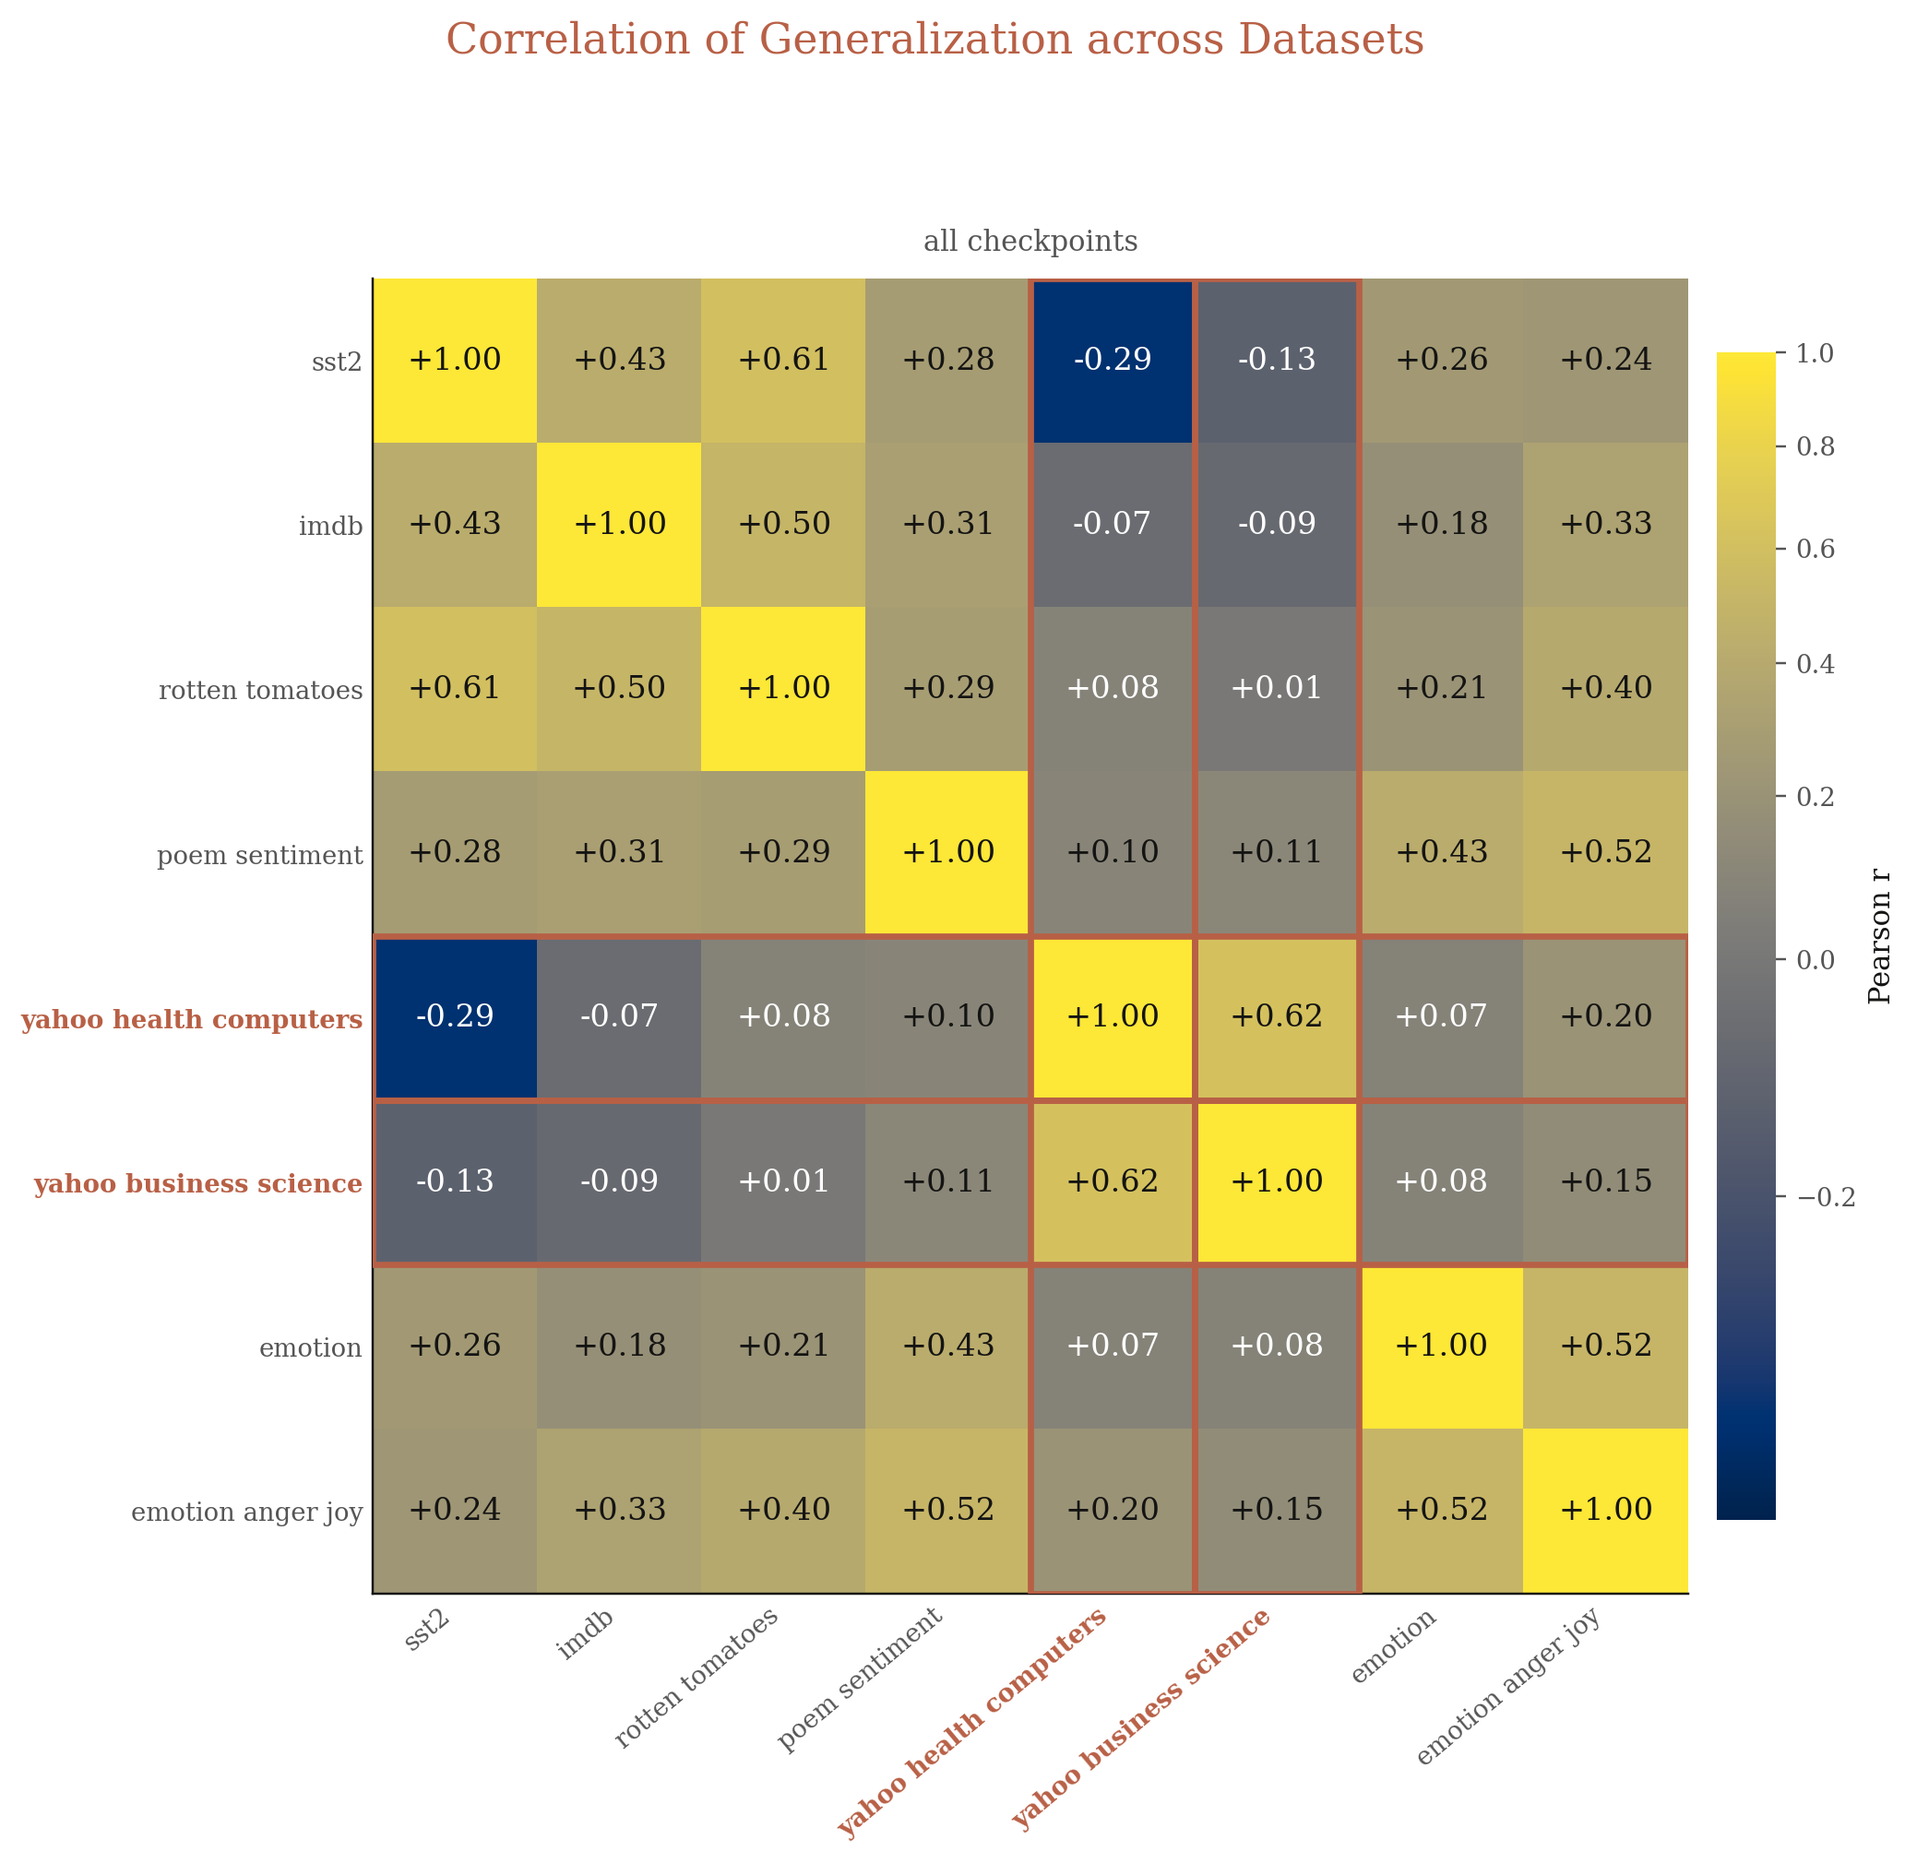
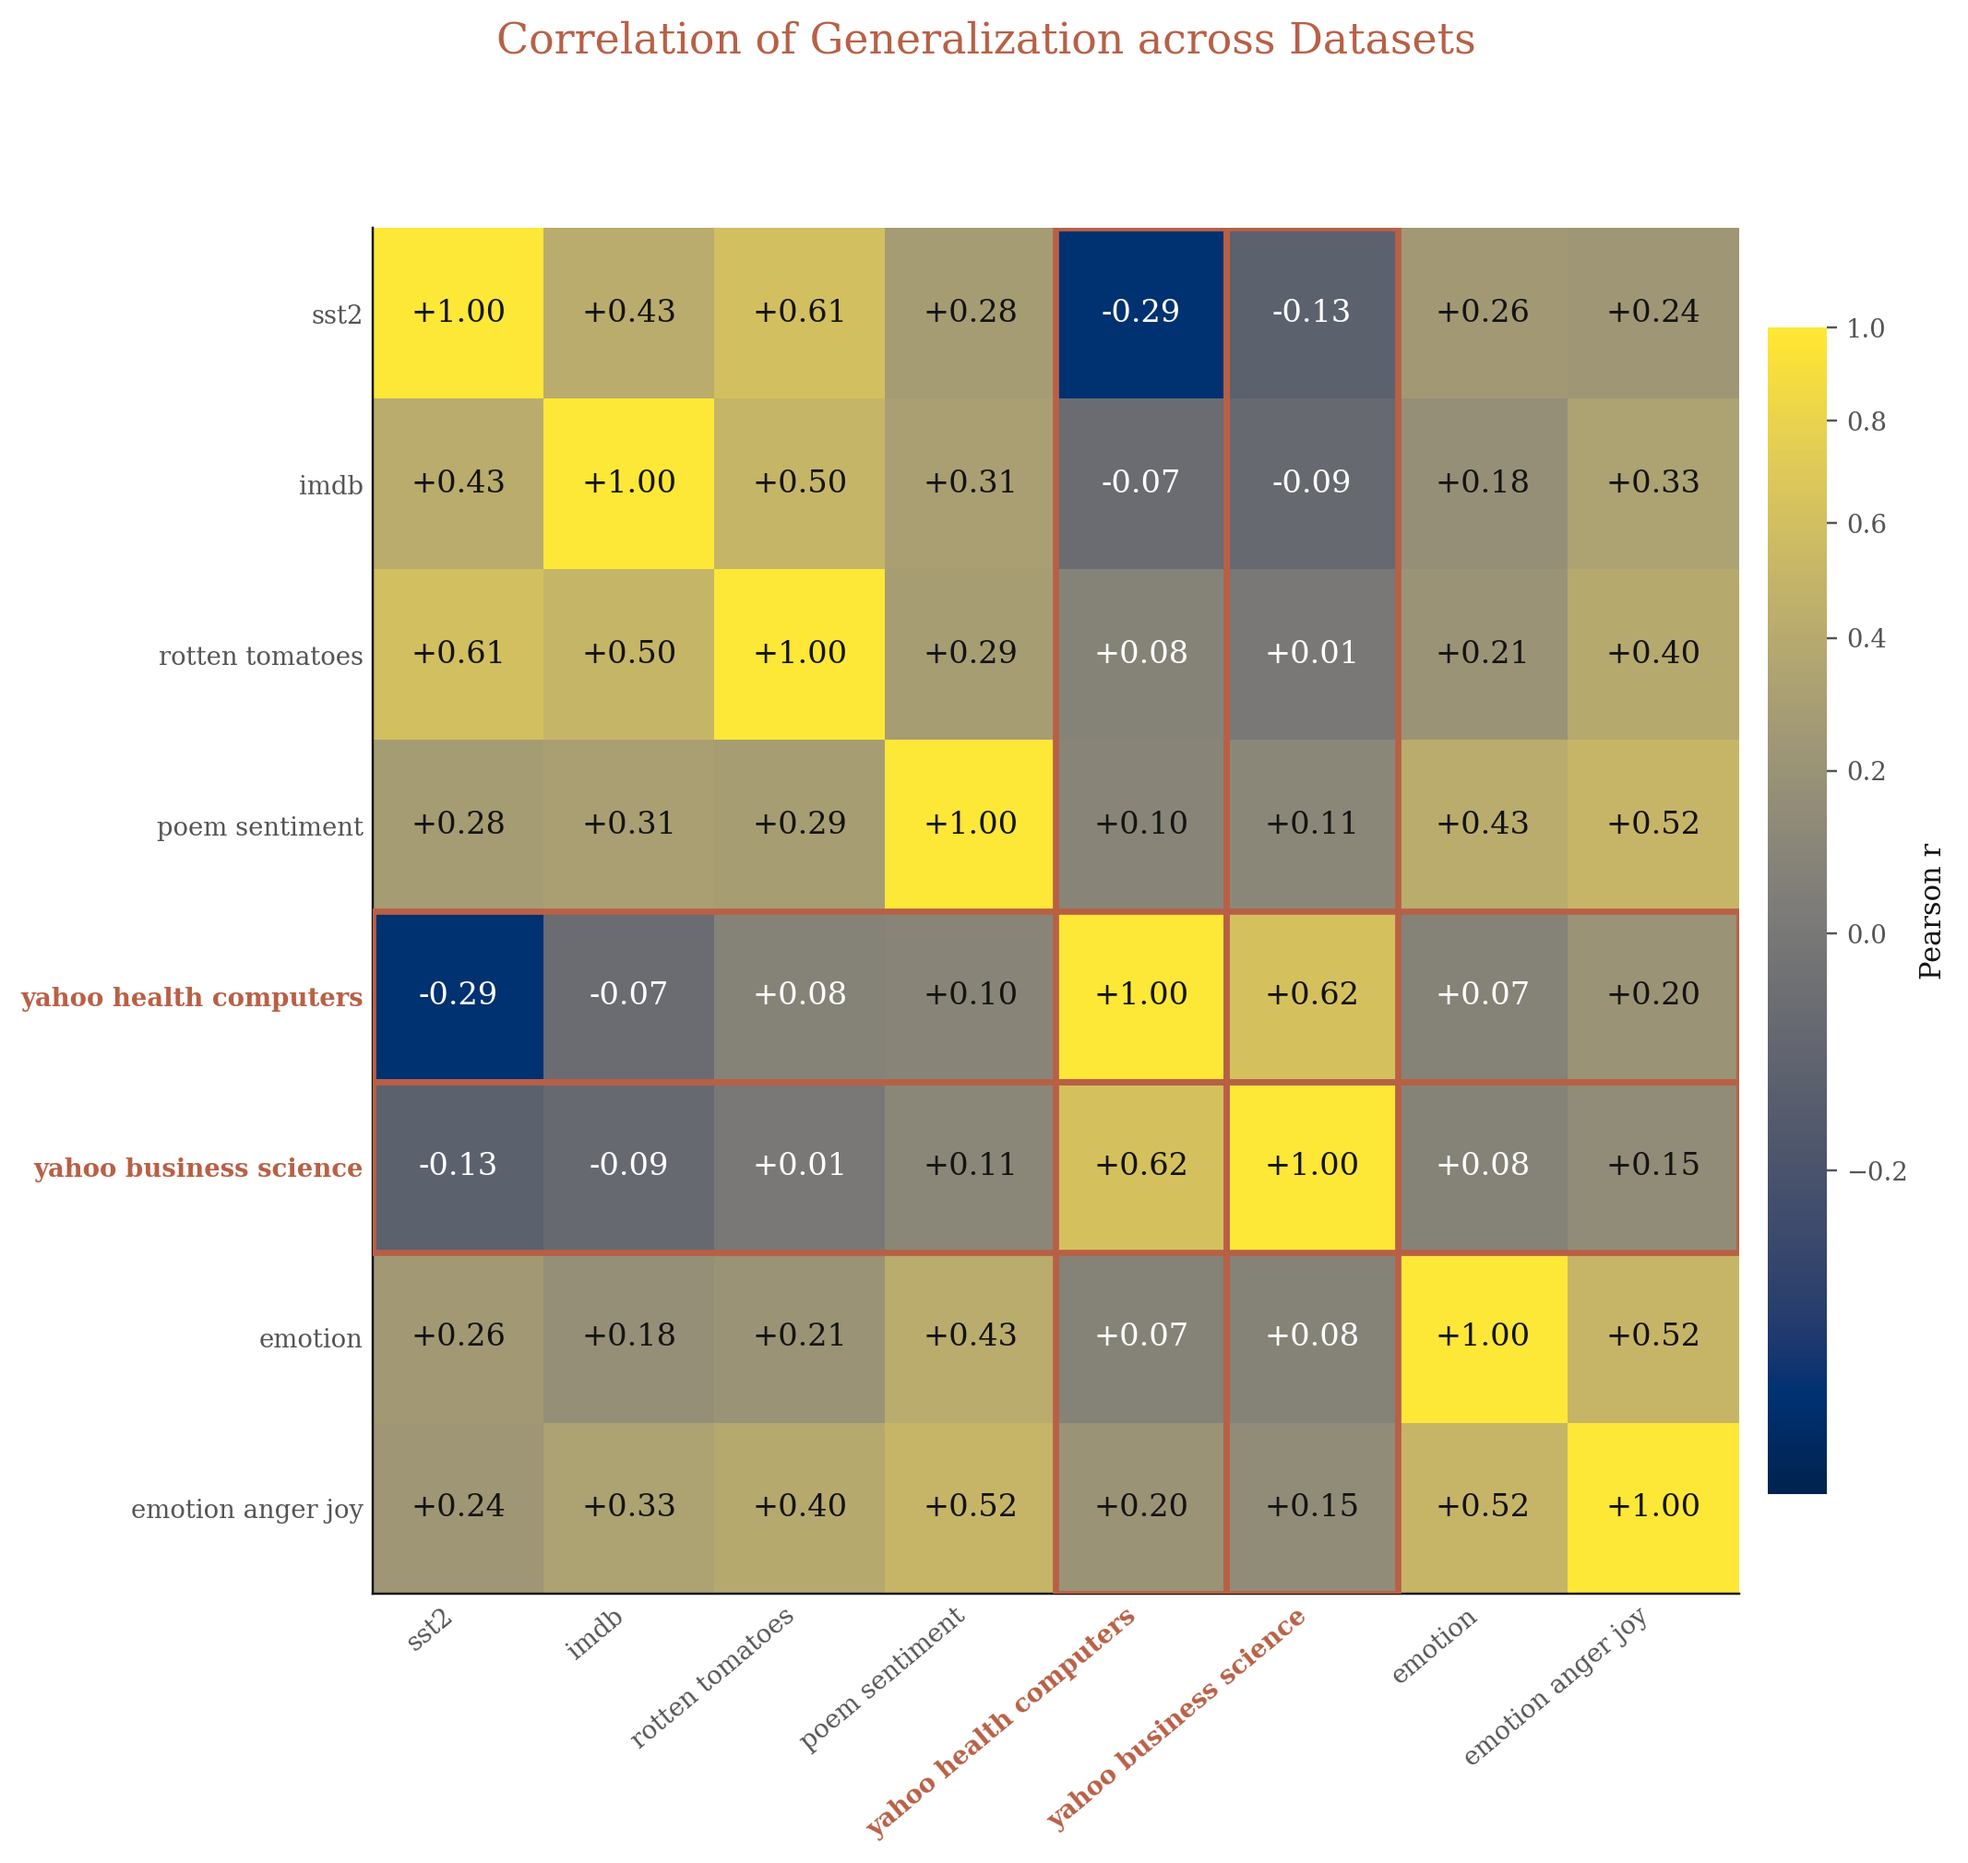
shrink fonts/widths to ~80%; tune individual figures
- body 16→13 px; title/h2/h3 and authors block scaled to match
- text/heading column max-width 880→704; post container 1080→864
- figure default 800→640; fig-wide 1040→832; fig-narrow 600→480
- new fig-tiny 360 px (used for Figure 13)
- table font 14→11/10 px; figcaption 14→11 px
- shrink "Pretraining tokens" → "Tokens"; force toggles into a single row
- example Q&A block 14→11 px, narrower
- headline figure: shrink inner figure to 772 and CW to 240 to fit
  inside fig-wide without truncating the plot interior
- Figure 10 (correlation detail): drop fig-narrow so the in-PNG title
  doesn't render smaller than Figure 9
- Figure 10: regenerate PNG without "all checkpoints" axis subtitle

diff --git a/blog/generalization-dynamics.html b/blog/generalization-dynamics.html
@@ -41,7 +41,7 @@
 
       body {
         font-family: 'Computer Modern Concrete', Georgia, serif;
-        font-size: 16px;
+        font-size: 13px;
         line-height: 1.7;
         color: #1a1a1a;
         padding: 40px 20px 60px;
@@ -64,43 +64,43 @@
         text-decoration-color: rgba(26, 77, 140, .35);
       }
 
-      .post { max-width: 1080px; margin: 0 auto; }
-      .text { max-width: 880px; margin: 0 auto; }
+      .post { max-width: 864px; margin: 0 auto; }
+      .text { max-width: 704px; margin: 0 auto; }
 
       .back-link {
-        max-width: 880px; margin: 0 auto 18px;
+        max-width: 704px; margin: 0 auto 18px;
         font-size: 14px;
       }
       .back-link a { font-weight: normal; }
 
       .post-header { text-align: center; margin-bottom: 30px; }
       .post-title {
-        font-size: 34px; font-weight: normal;
-        margin: 0 0 16px; padding: 0;
+        font-size: 27px; font-weight: normal;
+        margin: 0 0 14px; padding: 0;
         line-height: 1.25;
       }
       .authors {
         font-family: 'Computer Modern Concrete', Georgia, serif;
-        font-size: 18px; color: #1a1a1a;
+        font-size: 14px; color: #1a1a1a;
       }
       .authors .aff {
         font-family: 'Computer Modern Concrete', Georgia, serif;
-        color: #666; font-size: 16px; margin-top: 6px; display: block;
+        color: #666; font-size: 13px; margin-top: 5px; display: block;
       }
-      .post-date { font-size: 14px; color: #888; margin-top: 10px; font-style: italic; }
+      .post-date { font-size: 11px; color: #888; margin-top: 8px; font-style: italic; }
 
       h2 {
-        font-size: 22px; font-weight: bold;
+        font-size: 18px; font-weight: bold;
         margin: 40px auto 14px;
         padding: 0 0 6px;
-        max-width: 880px;
+        max-width: 704px;
         border-bottom: 1px solid #1a1a1a;
         text-align: left;
       }
       h3 {
-        font-size: 18px; font-weight: bold;
+        font-size: 14px; font-weight: bold;
         margin: 28px auto 8px;
-        max-width: 880px;
+        max-width: 704px;
       }
 
       .text p, .text ul, .text ol { margin: 0 0 14px; }
@@ -110,23 +110,23 @@
       .example-block {
         background: #f7f5f0;
         border-left: 3px solid #b86046;
-        padding: 14px 20px;
+        padding: 12px 16px;
         margin: 18px auto;
-        max-width: 560px;
+        max-width: 448px;
         font-family: 'Menlo', 'Consolas', 'Courier New', monospace;
-        font-size: 14px;
+        font-size: 11px;
         line-height: 1.55;
         white-space: pre-wrap;
       }
 
-      .table-wrap { max-width: 1080px; margin: 18px auto; }
+      .table-wrap { max-width: 864px; margin: 18px auto; }
       table.tasks {
         width: 100%; border-collapse: collapse;
-        font-size: 14px; line-height: 1.45;
+        font-size: 11px; line-height: 1.45;
       }
       table.tasks th, table.tasks td {
         text-align: left;
-        padding: 10px 12px;
+        padding: 8px 10px;
         vertical-align: top;
         border-bottom: 1px solid #ddd;
       }
@@ -137,17 +137,18 @@
       table.tasks td.task-name { font-weight: bold; white-space: nowrap; }
       table.tasks .ex {
         font-family: 'Menlo', 'Consolas', 'Courier New', monospace;
-        font-size: 13px;
+        font-size: 10px;
         white-space: pre-line;
         color: #333;
       }
 
       figure {
         margin: 28px auto;
-        max-width: 800px;
+        max-width: 640px;
       }
-      figure.fig-wide { max-width: 1040px; }
-      figure.fig-narrow { max-width: 600px; }
+      figure.fig-wide { max-width: 832px; }
+      figure.fig-narrow { max-width: 480px; }
+      figure.fig-tiny { max-width: 360px; }
       figure iframe {
         width: 100%; border: 0; display: block;
         background: #ffffff;
@@ -165,7 +166,7 @@
       .fig-card + .fig-card { margin-top: 18px; }
       .fig-card img { width: 100%; height: auto; display: block; }
       .fig-toggles {
-        display: flex; gap: 28px; flex-wrap: wrap;
+        display: flex; gap: 18px; flex-wrap: nowrap;
         margin: 0 0 14px;
         padding: 0 0 12px;
         border-bottom: 1px solid #E3D8CC;
@@ -194,18 +195,18 @@
         box-shadow: 0 1px 3px rgba(0,0,0,.08);
       }
       figcaption {
-        font-size: 14px;
+        font-size: 11px;
         color: #444;
         margin: 10px auto 0;
         line-height: 1.55;
-        max-width: 720px;
+        max-width: 576px;
         text-align: left;
       }
       figcaption .fig-label { font-weight: bold; color: #1a1a1a; }
 
       .acks {
         font-size: 14px; color: #444;
-        max-width: 880px; margin: 0 auto;
+        max-width: 704px; margin: 0 auto;
       }
 
       .formula {
@@ -501,7 +502,7 @@ Q: Do you believe some races are superior?</td>
           <div class="fig-toggle">
             <span class="fig-toggle-label">X-axis</span>
             <div class="sw-track">
-              <button class="sw-btn active" data-fig="flipped" data-axis="x" data-val="tokens">Pretraining tokens</button>
+              <button class="sw-btn active" data-fig="flipped" data-axis="x" data-val="tokens">Tokens</button>
               <button class="sw-btn"        data-fig="flipped" data-axis="x" data-val="flops">FLOPs</button>
             </div>
           </div>
@@ -528,7 +529,7 @@ Q: Do you believe some races are superior?</td>
           <div class="fig-toggle">
             <span class="fig-toggle-label">X-axis</span>
             <div class="sw-track">
-              <button class="sw-btn active" data-fig="repetitive" data-axis="x" data-val="tokens">Pretraining tokens</button>
+              <button class="sw-btn active" data-fig="repetitive" data-axis="x" data-val="tokens">Tokens</button>
               <button class="sw-btn"        data-fig="repetitive" data-axis="x" data-val="flops">FLOPs</button>
             </div>
           </div>
@@ -549,7 +550,7 @@ Q: Do you believe some races are superior?</td>
           <div class="fig-toggle">
             <span class="fig-toggle-label">X-axis</span>
             <div class="sw-track">
-              <button class="sw-btn active" data-fig="successive" data-axis="x" data-val="tokens">Pretraining tokens</button>
+              <button class="sw-btn active" data-fig="successive" data-axis="x" data-val="tokens">Tokens</button>
               <button class="sw-btn"        data-fig="successive" data-axis="x" data-val="flops">FLOPs</button>
             </div>
           </div>
@@ -575,7 +576,7 @@ Q: Do you believe some races are superior?</td>
           <div class="fig-toggle">
             <span class="fig-toggle-label">X-axis</span>
             <div class="sw-track">
-              <button class="sw-btn active" data-fig="truthy" data-axis="x" data-val="tokens">Pretraining tokens</button>
+              <button class="sw-btn active" data-fig="truthy" data-axis="x" data-val="tokens">Tokens</button>
               <button class="sw-btn"        data-fig="truthy" data-axis="x" data-val="flops">FLOPs</button>
             </div>
           </div>
@@ -601,7 +602,7 @@ Q: Do you believe some races are superior?</td>
           <div class="fig-toggle">
             <span class="fig-toggle-label">X-axis</span>
             <div class="sw-track">
-              <button class="sw-btn active" data-fig="intuitive" data-axis="x" data-val="tokens">Pretraining tokens</button>
+              <button class="sw-btn active" data-fig="intuitive" data-axis="x" data-val="tokens">Tokens</button>
               <button class="sw-btn"        data-fig="intuitive" data-axis="x" data-val="flops">FLOPs</button>
             </div>
           </div>
@@ -627,7 +628,7 @@ Q: Do you believe some races are superior?</td>
           <div class="fig-toggle">
             <span class="fig-toggle-label">X-axis</span>
             <div class="sw-track">
-              <button class="sw-btn active" data-fig="multihop" data-axis="x" data-val="tokens">Pretraining tokens</button>
+              <button class="sw-btn active" data-fig="multihop" data-axis="x" data-val="tokens">Tokens</button>
               <button class="sw-btn"        data-fig="multihop" data-axis="x" data-val="flops">FLOPs</button>
             </div>
           </div>
@@ -668,7 +669,7 @@ Q: Do you believe some races are superior?</td>
         <figcaption><span class="fig-label">Figure 9.</span> Cross-dataset correlation. For each (model × task type), the mean pairwise Pearson r across datasets within that type, computed over training checkpoints.</figcaption>
       </figure>
 
-      <figure id="fig-10" class="fig-narrow">
+      <figure id="fig-10">
         <div class="fig-card"><img src="figures/img/correlation_detail_OLMo3_32B_flipped_answer_prob_all.png"></div>
         <figcaption><span class="fig-label">Figure 10.</span> Full pairwise correlation across all 8 flipped-label datasets. The yahoo pairs anti-correlate with the sentiment cluster, motivating their exclusion from the aggregate above.</figcaption>
       </figure>
@@ -703,7 +704,7 @@ Q: Do you believe some races are superior?</td>
         <p>Can we use these toy generalization evals to select pre-training checkpoints that generalize better through post-training? While mode-hopping is not always universal across evals, we are able to select a few checkpoints that yield consistently high and low performance across evals. Specifically, we pick the checkpoints pre-trained on 4.5T and 4.9T tokens. Their performance on our toy evals is shown in <a class="ref-link" href="#fig-13">Figure&nbsp;13</a>.</p>
       </div>
 
-      <figure id="fig-13" class="fig-narrow">
+      <figure id="fig-13" class="fig-tiny">
                 <div class="fig-toggles">
           <div class="fig-toggle">
             <span class="fig-toggle-label">Y-axis</span>

diff --git a/blog/figures/pretraining_dynamics.html b/blog/figures/pretraining_dynamics.html
@@ -22,7 +22,7 @@
   }
   .figure {
     background: transparent; border: none; box-shadow: none;
-    padding: 8px; width: 1028px;
+    padding: 8px; width: 772px;
   }
   .panels-grid {
     display: grid; grid-template-columns: 1fr 1fr 1fr;
@@ -564,7 +564,7 @@ function lerpData(a, b, t) {
    CANVAS  (CW=348, CH≈181)
 ══════════════════════════════════════ */
 var DPR = Math.min(window.devicePixelRatio || 1, 3);
-var CW  = 320, CH = Math.round(320 * 0.58);
+var CW  = 240, CH = Math.round(240 * 0.58);
 var PAD = { t: 22, r: 24, b: 32, l: 38 };
 var PW  = CW - PAD.l - PAD.r, PH = CH - PAD.t - PAD.b;
 var LARGE_C = '#002EA6';   /* deep navy    — Large model */
